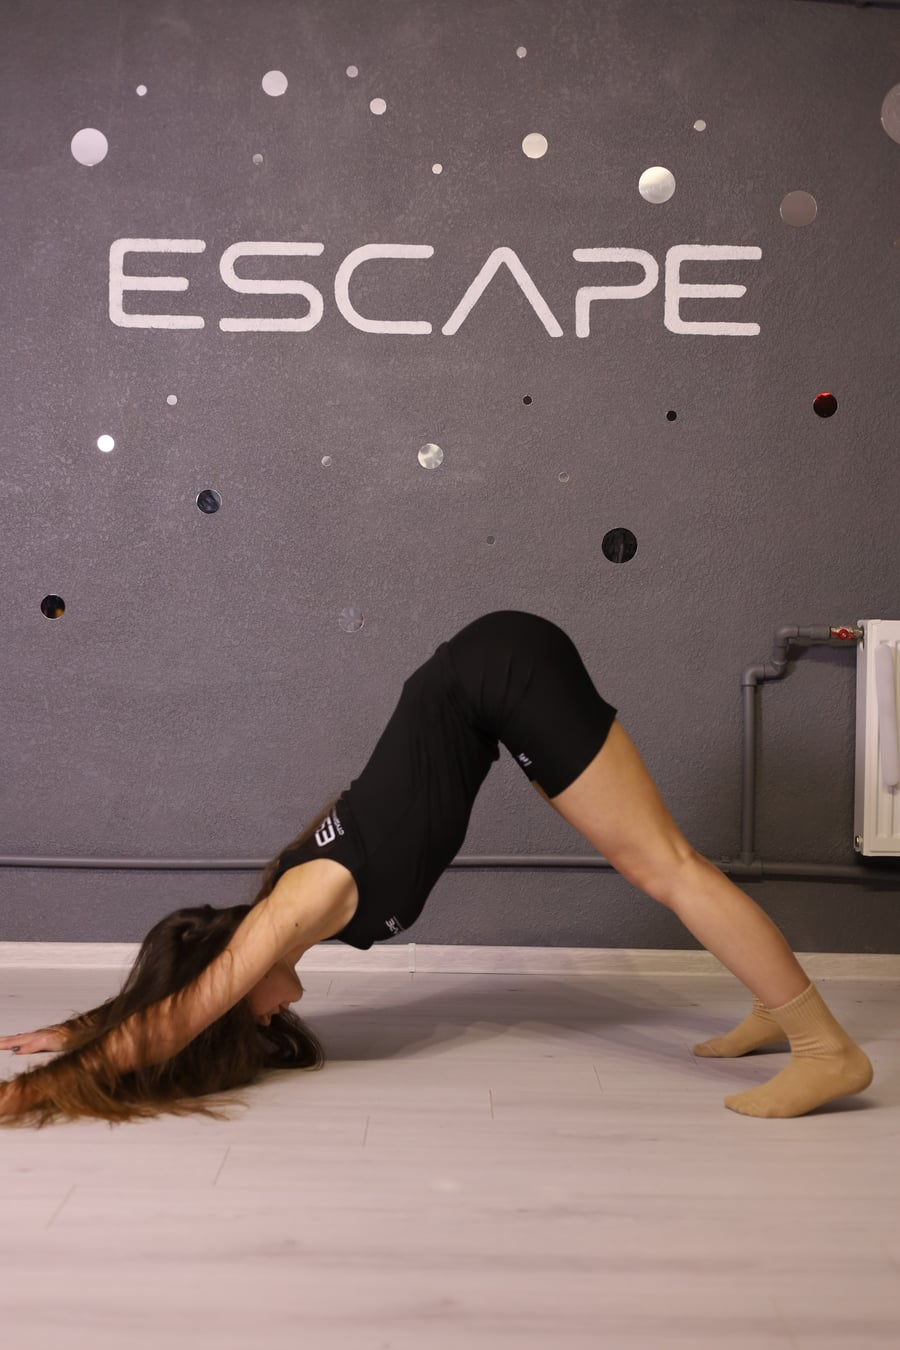
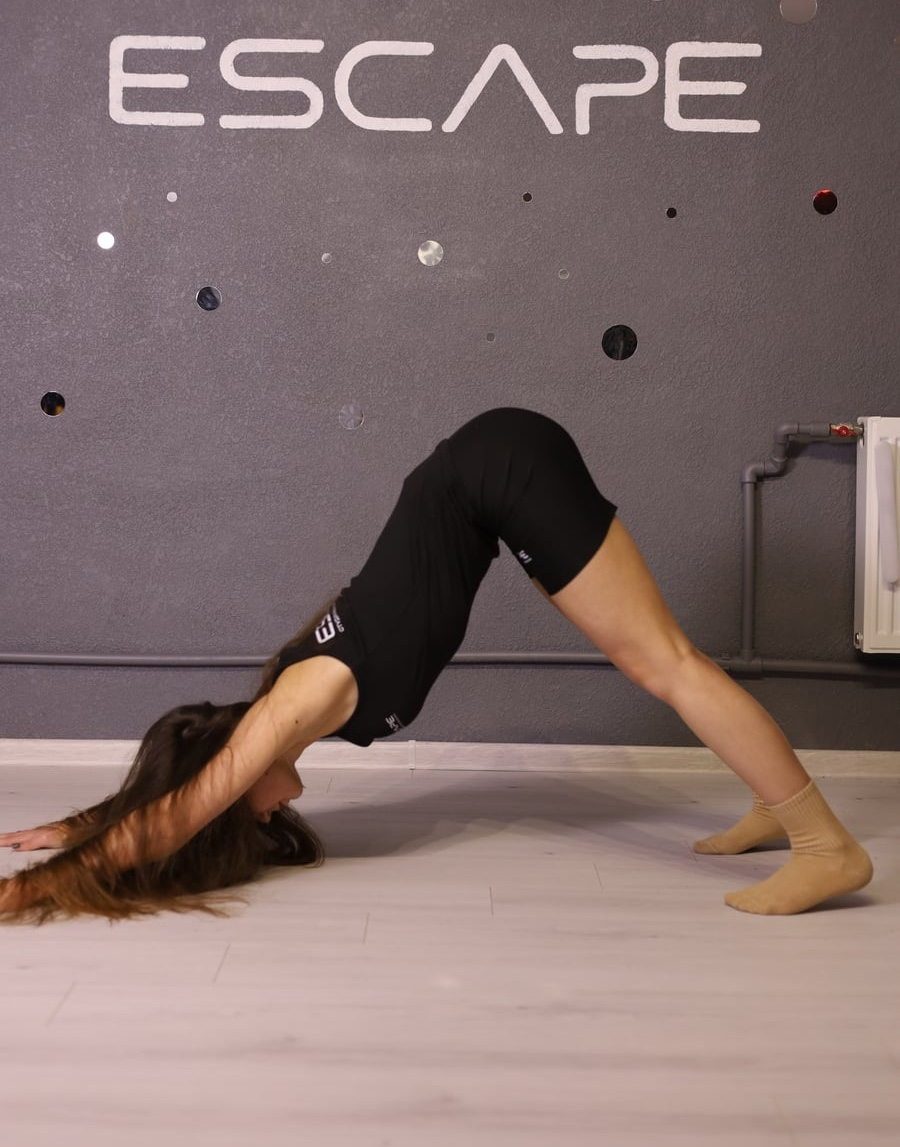
Relax Stretching card: lift the subject above the text
- Crop empty wall off the top of the photo (900×1147)
- Direction gets an optional `focus` (object-position) for low subjects; Relax Stretching uses 25% 100%

diff --git a/src/data/content.ts b/src/data/content.ts
@@ -6,6 +6,8 @@ export interface Direction {
   photo: string;
   icon: IconName;
   description: string;
+  // Optional CSS object-position for the card photo when the subject sits low (text overlays the bottom).
+  focus?: string;
 }
 
 export interface ScheduleRow {
@@ -54,7 +56,7 @@ export const directions: Direction[] = [
   { name: 'High Heels', photo: 'high-heels', icon: 'heel', description: 'Танець на підборах: пластика, впевненість, жіночність.' },
   { name: 'Lady Dance', photo: 'lady-dance', icon: 'star', description: 'Жіночна танцювальна пластика, грація та впевненість у собі.' },
   { name: 'Body Intensive', photo: 'body-intensive', icon: 'bolt', description: 'Функціональне тренування на все тіло та витривалість.' },
-  { name: 'Relax Stretching', photo: 'relax-stretching', icon: 'sparkle', description: 'Повільна розтяжка для відновлення після дня.' },
+  { name: 'Relax Stretching', photo: 'relax-stretching', icon: 'sparkle', description: 'Повільна розтяжка для відновлення після дня.', focus: '25% 100%' },
   { name: 'Дитячі танці', photo: 'kids-dance', icon: 'people', description: 'Kids Dance: танці та розвиток для дітей 3–6 років.' },
   { name: 'Сучасні танці', photo: 'teen-dance', icon: 'music', description: 'Modern Dance для дітей і підлітків від 7 років.' },
 ];
